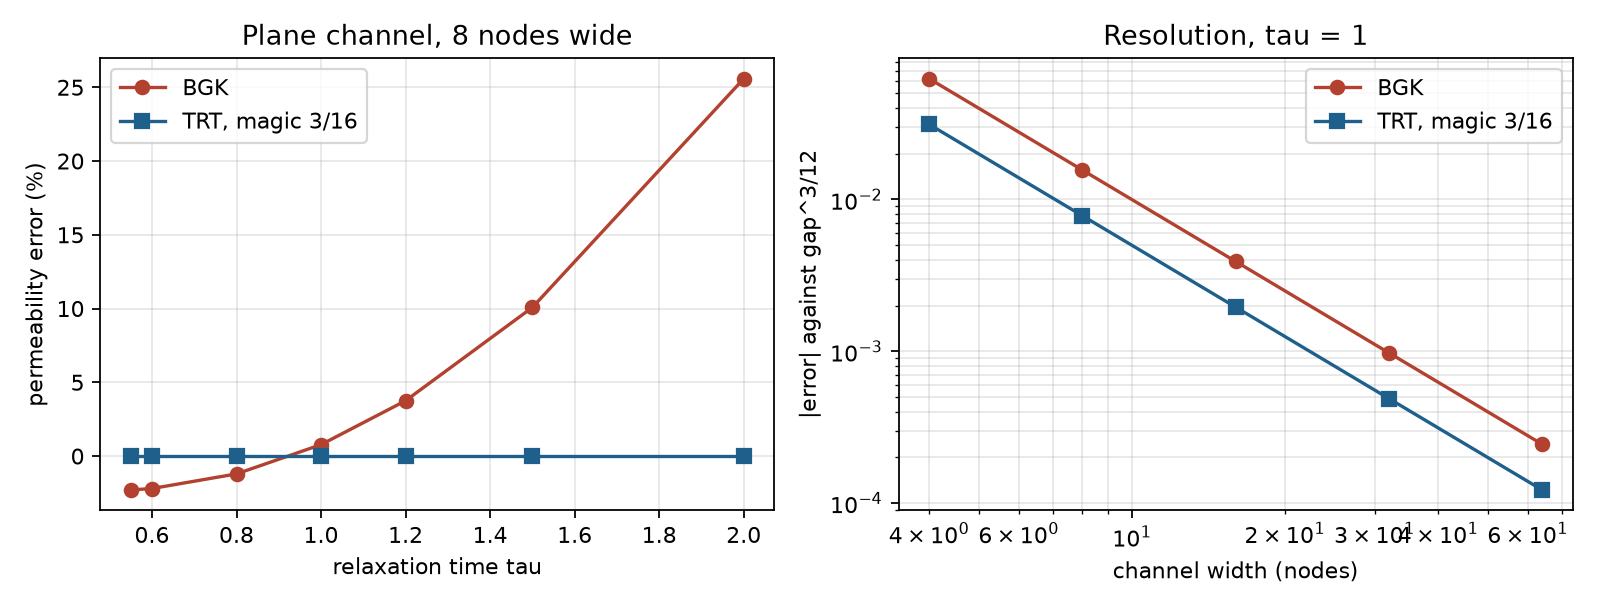
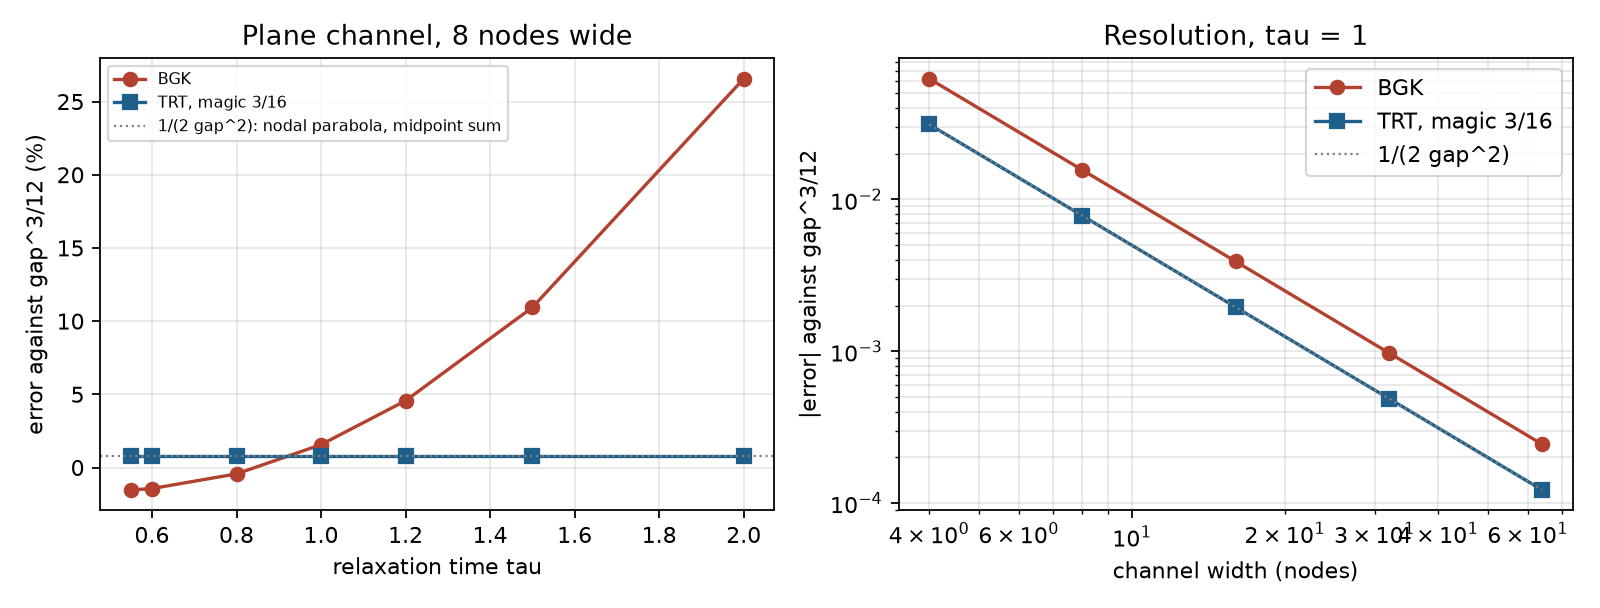
Channel figure: both panels against the continuum value, with the quadrature line

diff --git a/benchmarks/plot_verification.py b/benchmarks/plot_verification.py
@@ -25,13 +25,14 @@ for gap, axis in ((8, ax[0]),):
     for col in ('bgk', 'trt'):
         rows = sorted(pick(group='channel', gap=gap, collision=col), key=lambda c: c['tau'])
         if rows:
-            ref = rows[0]['nodal_reference_k_lu']
-            axis.plot([c['tau'] for c in rows], [100 * (c['k_lu'] - ref) / ref for c in rows], **style[col])
-    axis.set(xlabel='relaxation time tau', ylabel='permeability error (%)', title=f'Plane channel, {gap} nodes wide'); axis.legend(); axis.grid(alpha=.3)
+            axis.plot([c['tau'] for c in rows], [100 * c['relative_error'] for c in rows], **style[col])
+    axis.axhline(100 / (2 * gap ** 2), color='0.5', ls=':', lw=1, label='1/(2 gap^2): nodal parabola, midpoint sum')
+    axis.set(xlabel='relaxation time tau', ylabel='error against gap^3/12 (%)', title=f'Plane channel, {gap} nodes wide'); axis.legend(fontsize=7); axis.grid(alpha=.3)
 for col in ('bgk', 'trt'):
     rows = sorted(pick(group='channel', tau=1.0, collision=col), key=lambda c: c['gap'])
     if rows:
         ax[1].loglog([c['gap'] for c in rows], [max(abs(c['relative_error']), 1e-16) for c in rows], **style[col])
+gaps = np.array([4, 8, 16, 32, 64]); ax[1].loglog(gaps, 1 / (2. * gaps ** 2), color='0.5', ls=':', lw=1, label='1/(2 gap^2)')
 ax[1].set(xlabel='channel width (nodes)', ylabel='|error| against gap^3/12', title='Resolution, tau = 1'); ax[1].legend(); ax[1].grid(alpha=.3, which='both')
 fig.tight_layout(); fig.savefig(out / 'channel.png', dpi=160); plt.close(fig)
 lines += ['## Plane channel (exact nodal value (gap^3/12+gap/24)/Ny)', '', '| gap | tau | BGK error | TRT error |', '|---|---|---|---|']
